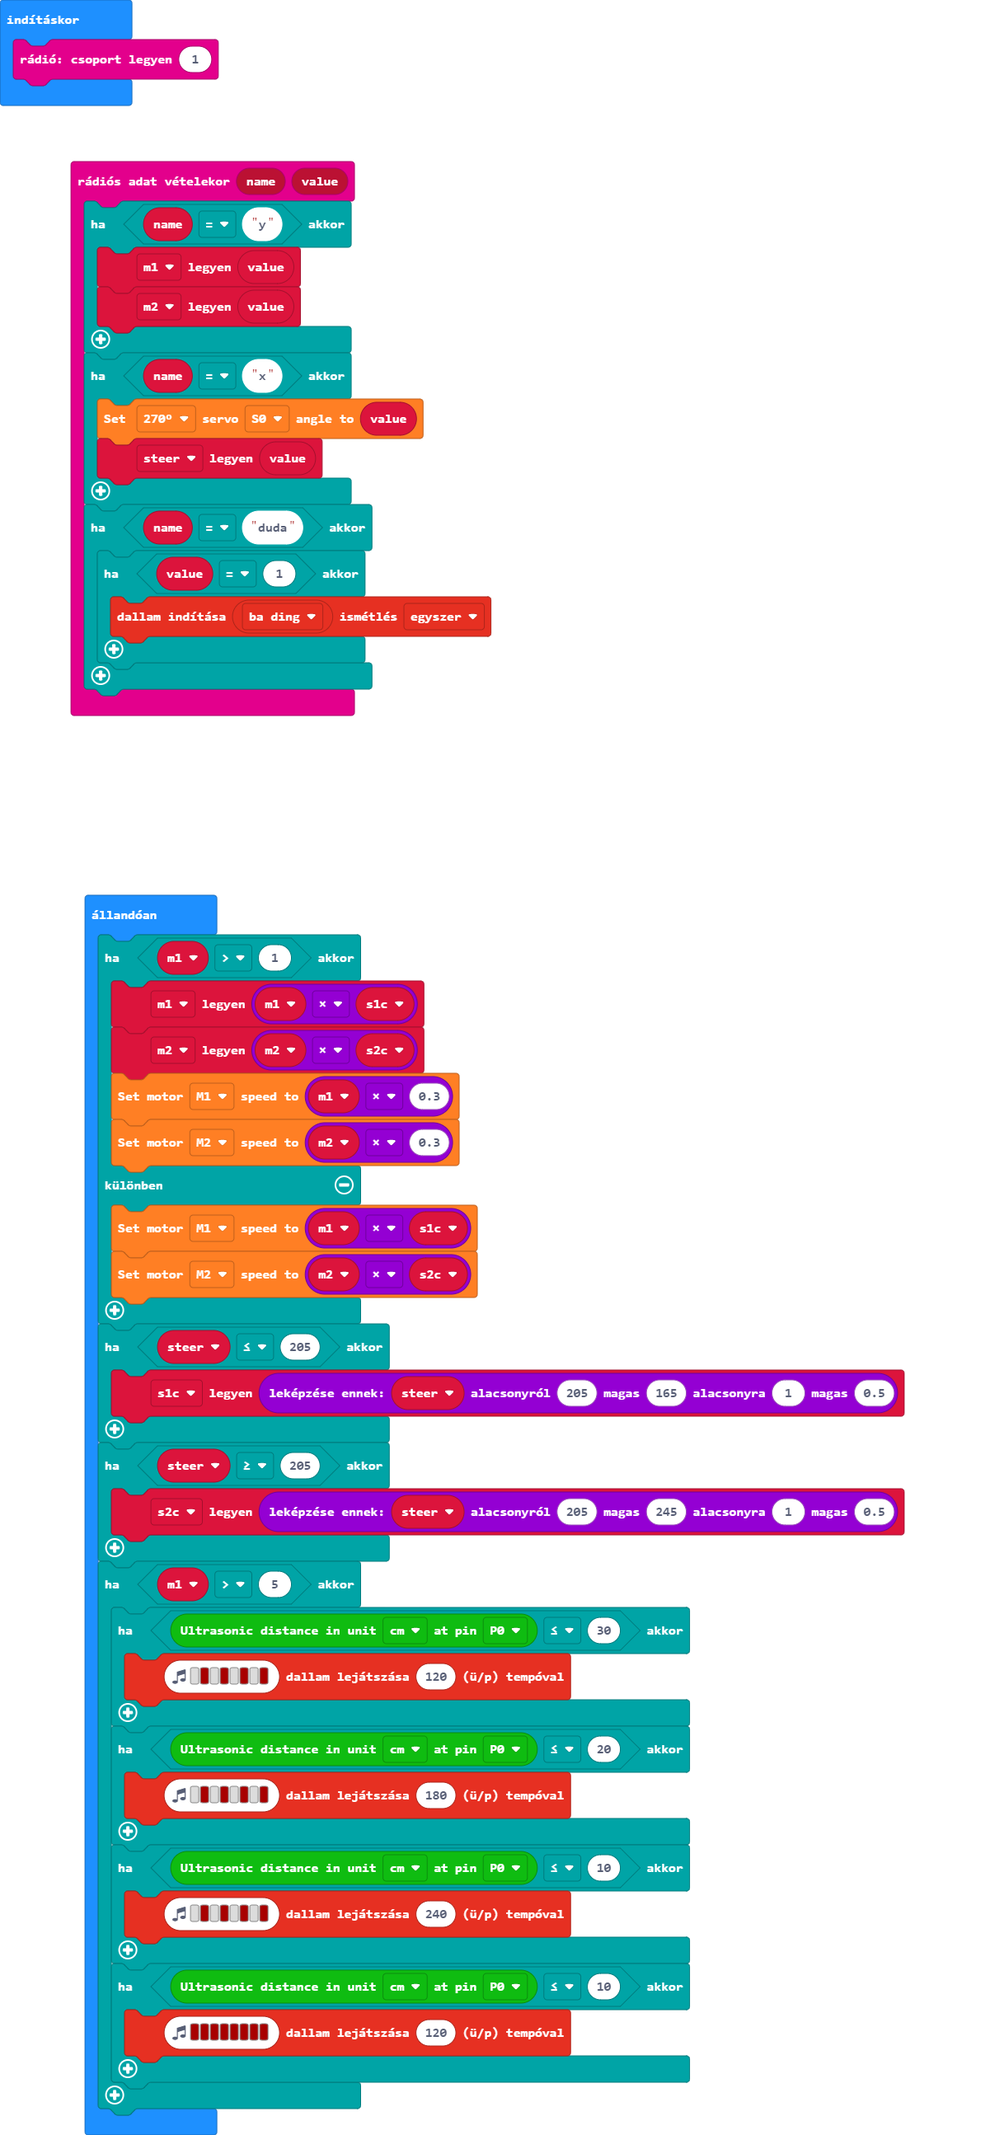
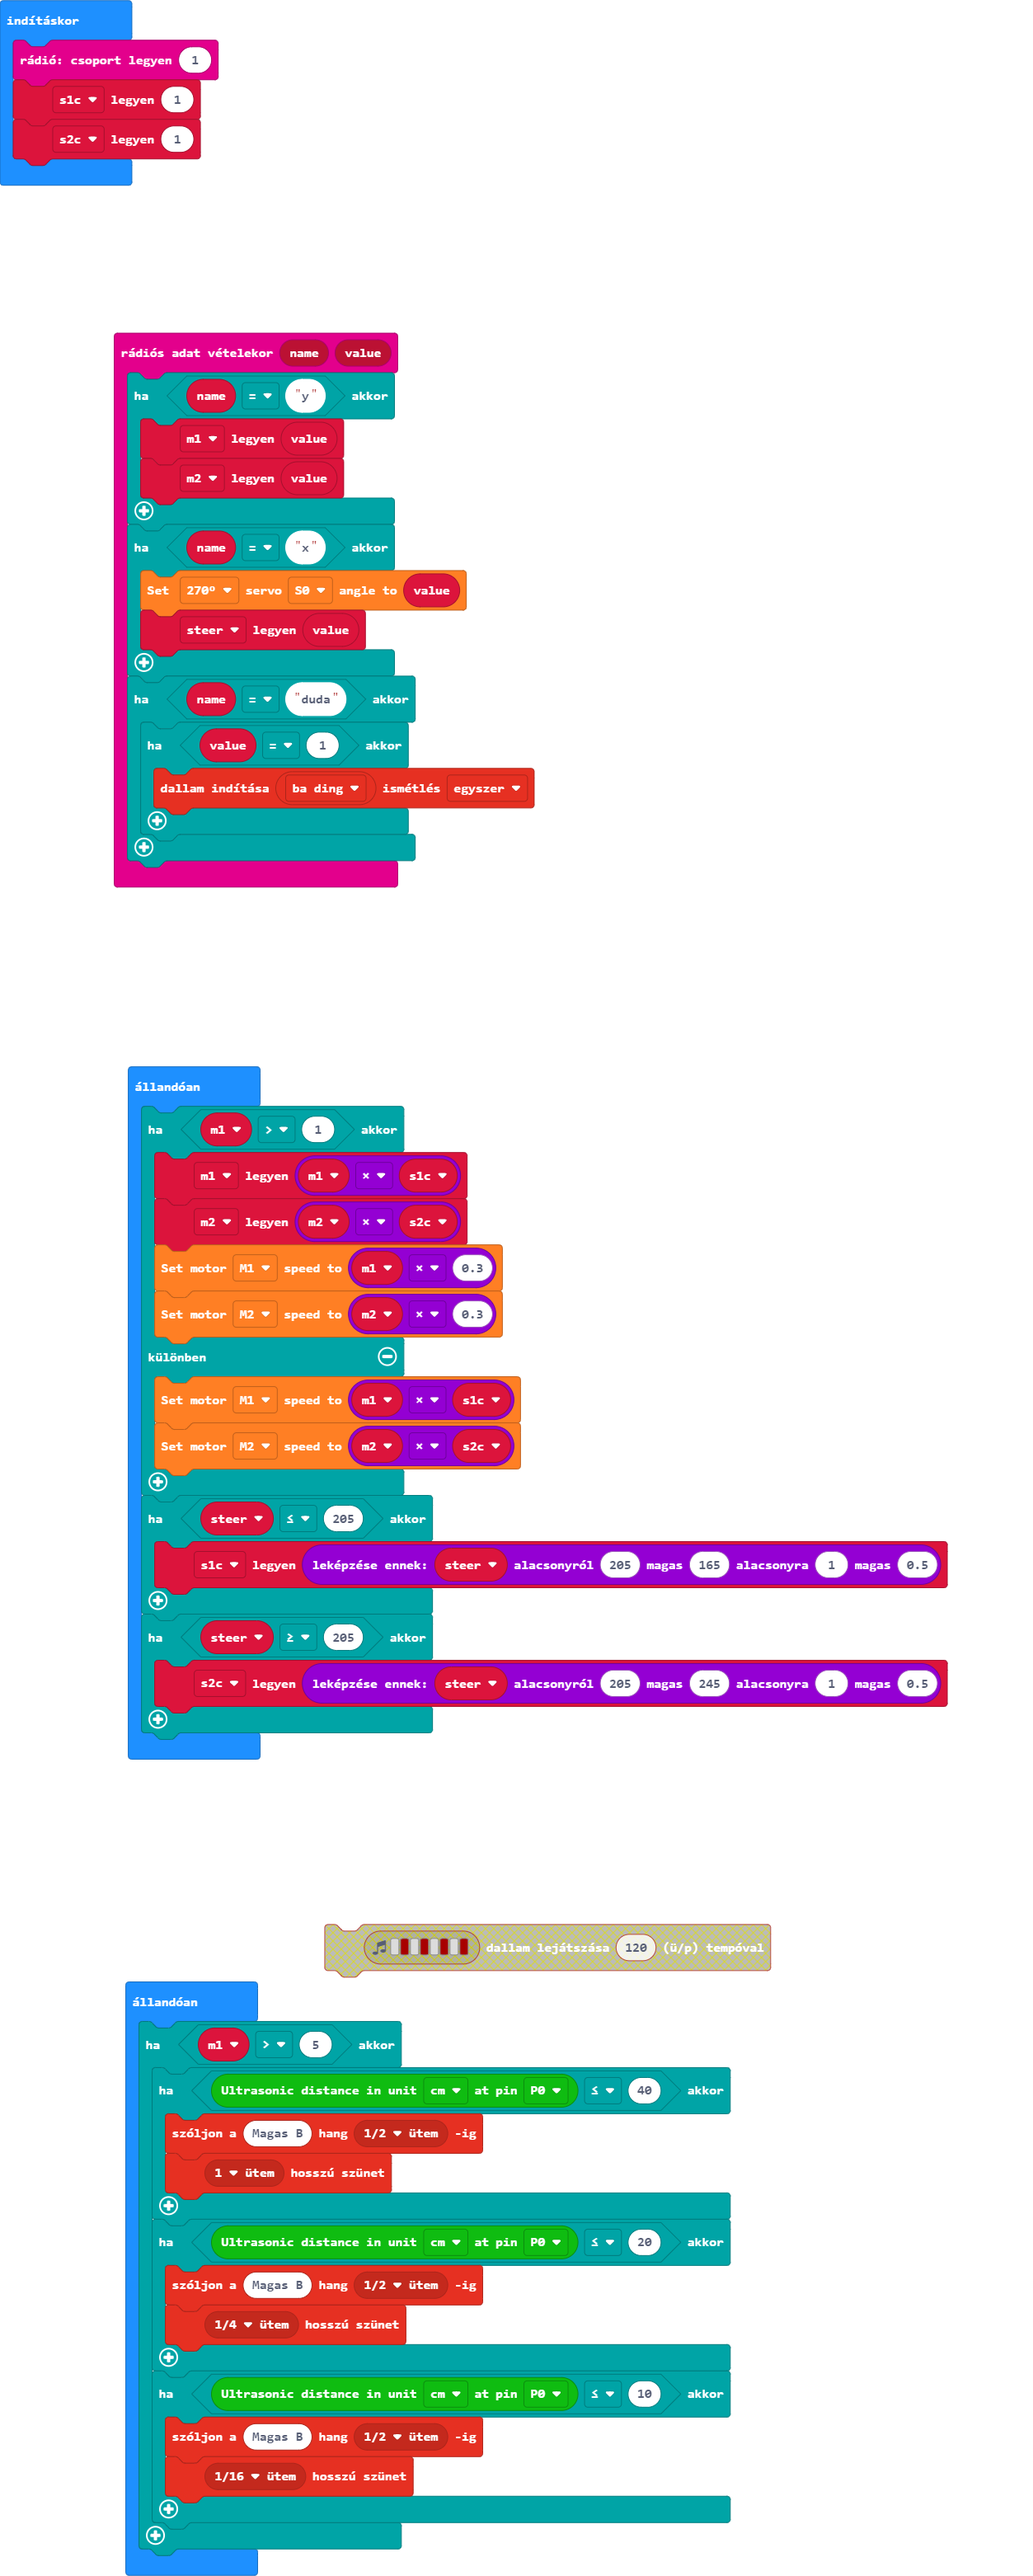
main.blocks, main.ts frissítése

Changed region(s): [[0.0616, 0.4015, 0.9242, 1.0], [0.0, 0.0, 0.5237, 0.3707]]

diff --git a/main.ts b/main.ts
@@ -13,12 +13,12 @@ radio.onReceivedValue(function (name, value) {
         }
     }
 })
-let s2c = 0
-let s1c = 0
 let steer = 0
 let m2 = 0
 let m1 = 0
 radio.setGroup(1)
+let s1c = 1
+let s2c = 1
 basic.forever(function () {
     if (m1 > 1) {
         m1 = m1 * s1c
@@ -35,18 +35,20 @@ basic.forever(function () {
     if (steer >= 205) {
         s2c = Math.map(steer, 205, 245, 1, 0.5)
     }
+})
+basic.forever(function () {
     if (m1 > 5) {
-        if (sonarbit.sonarbit_distance(Distance_Unit.Distance_Unit_cm, DigitalPin.P0) <= 30) {
-            music.playMelody("- C5 - C5 - C5 - C5 ", 120)
+        if (sonarbit.sonarbit_distance(Distance_Unit.Distance_Unit_cm, DigitalPin.P0) <= 40) {
+            music.playTone(988, music.beat(BeatFraction.Half))
+            music.rest(music.beat(BeatFraction.Whole))
         }
         if (sonarbit.sonarbit_distance(Distance_Unit.Distance_Unit_cm, DigitalPin.P0) <= 20) {
-            music.playMelody("- C5 - C5 - C5 - C5 ", 180)
+            music.playTone(988, music.beat(BeatFraction.Half))
+            music.rest(music.beat(BeatFraction.Quarter))
         }
         if (sonarbit.sonarbit_distance(Distance_Unit.Distance_Unit_cm, DigitalPin.P0) <= 10) {
-            music.playMelody("- C5 - C5 - C5 - C5 ", 240)
-        }
-        if (sonarbit.sonarbit_distance(Distance_Unit.Distance_Unit_cm, DigitalPin.P0) <= 10) {
-            music.playMelody("C5 C5 C5 C5 C5 C5 C5 C5 ", 120)
+            music.playTone(988, music.beat(BeatFraction.Half))
+            music.rest(music.beat(BeatFraction.Sixteenth))
         }
     }
 })
